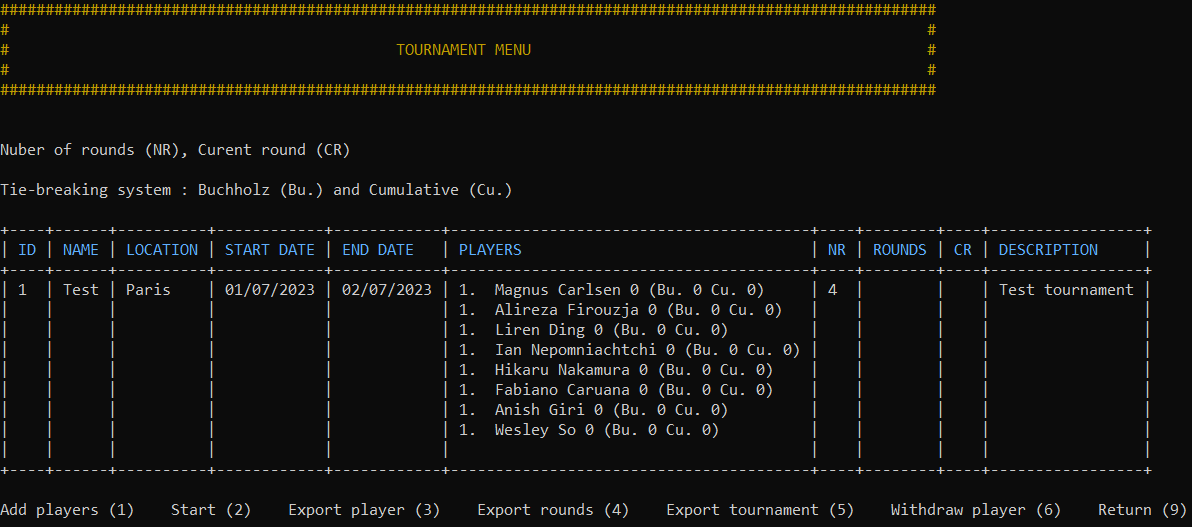
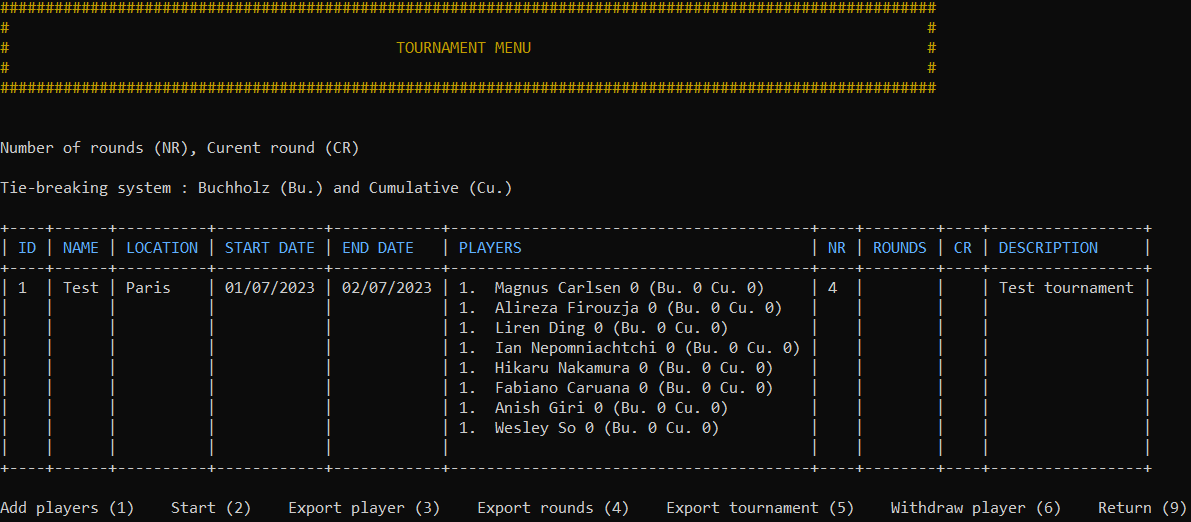
Correct typing error nuber to number

diff --git a/views/tournament.py b/views/tournament.py
@@ -63,6 +63,6 @@ class TournamentMenuView:
         print()
 
     def short_form_info(self):
-        message = "Nuber of rounds (NR), Curent round (CR)"
+        message = "Number of rounds (NR), Curent round (CR)"
         print(message)
         print()
